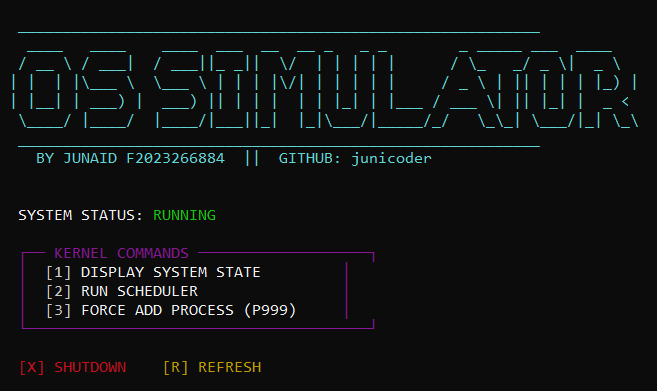
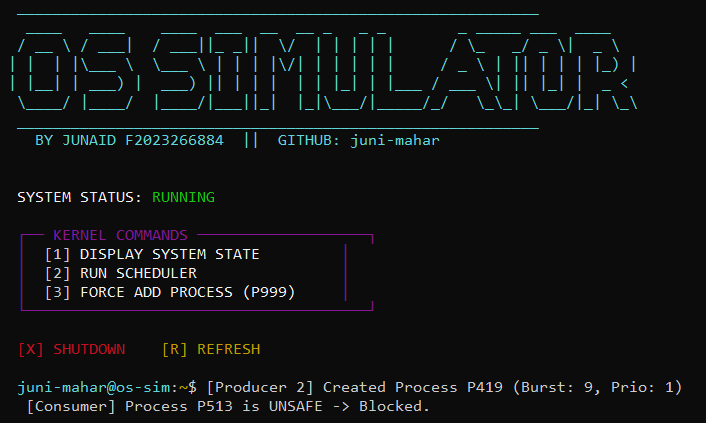
Add files via upload

diff --git a/main.cpp b/main.cpp
@@ -43,7 +43,7 @@ void printHeader() {
  | |__| | ___) |  ___) || | | |  | | |_| | |___ / ___ \| || |_| |  _ < 
   \____/ |____/  |____/|___||_|  |_|\___/|_____/_/   \_\_| \___/|_| \_\
   __________________________________________________________
-    BY JUNAID F2023266884  ||  GITHUB: junicoder
+    BY JUNAID F2023266884  ||  GITHUB: juni-mahar
     )" << "\033[0m\n";
 }
 
@@ -93,7 +93,7 @@ int main() {
         
         cout << "\n  \033[31m[X] SHUTDOWN\033[0m    \033[33m[R] REFRESH\033[0m\n\n";
         
-        cout << "\033[1m\033[36m  junicoder@os-sim\033[0m:\033[33m~\033[0m$ ";
+        cout << "\033[1m\033[36m  juni-mahar@os-sim\033[0m:\033[33m~\033[0m$ ";
         cin >> choice;
 
         if (choice == "1") {

diff --git a/README.md b/README.md
@@ -6,7 +6,7 @@
 
 **ID:** F2023266884
 
-**GitHub:** [junicoder](https://github.com/junicoder)
+**GitHub:** [juni-mahar](https://github.com/juni-mahar)
 
 ---
 
@@ -78,19 +78,19 @@ The interface provides a professional CLI experience with:
 
 > **Menu**
 
-> ![Menu](Screenshots/menu.png)
+> ![Menu](Screenshots\menu.png)
 
 > **1 . Display System State**
 
-> ![Display System State](Screenshots/DisplaySystemState.png)
+> ![Display System State](Screenshots\DisplaySystemState.png)
 
 >**2 . Run Scheduler**
 
-> ![Run](Screenshots/CallSch.png)
+> ![Run](Screenshots\CallSch.png)
 
 >**3 . Force add process (P999)**
 
-> ![Force](Screenshots/addp.png)
+> ![Force](Screenshots\addp.png)
 ---
 
 ## 💻 Compilation & Execution
